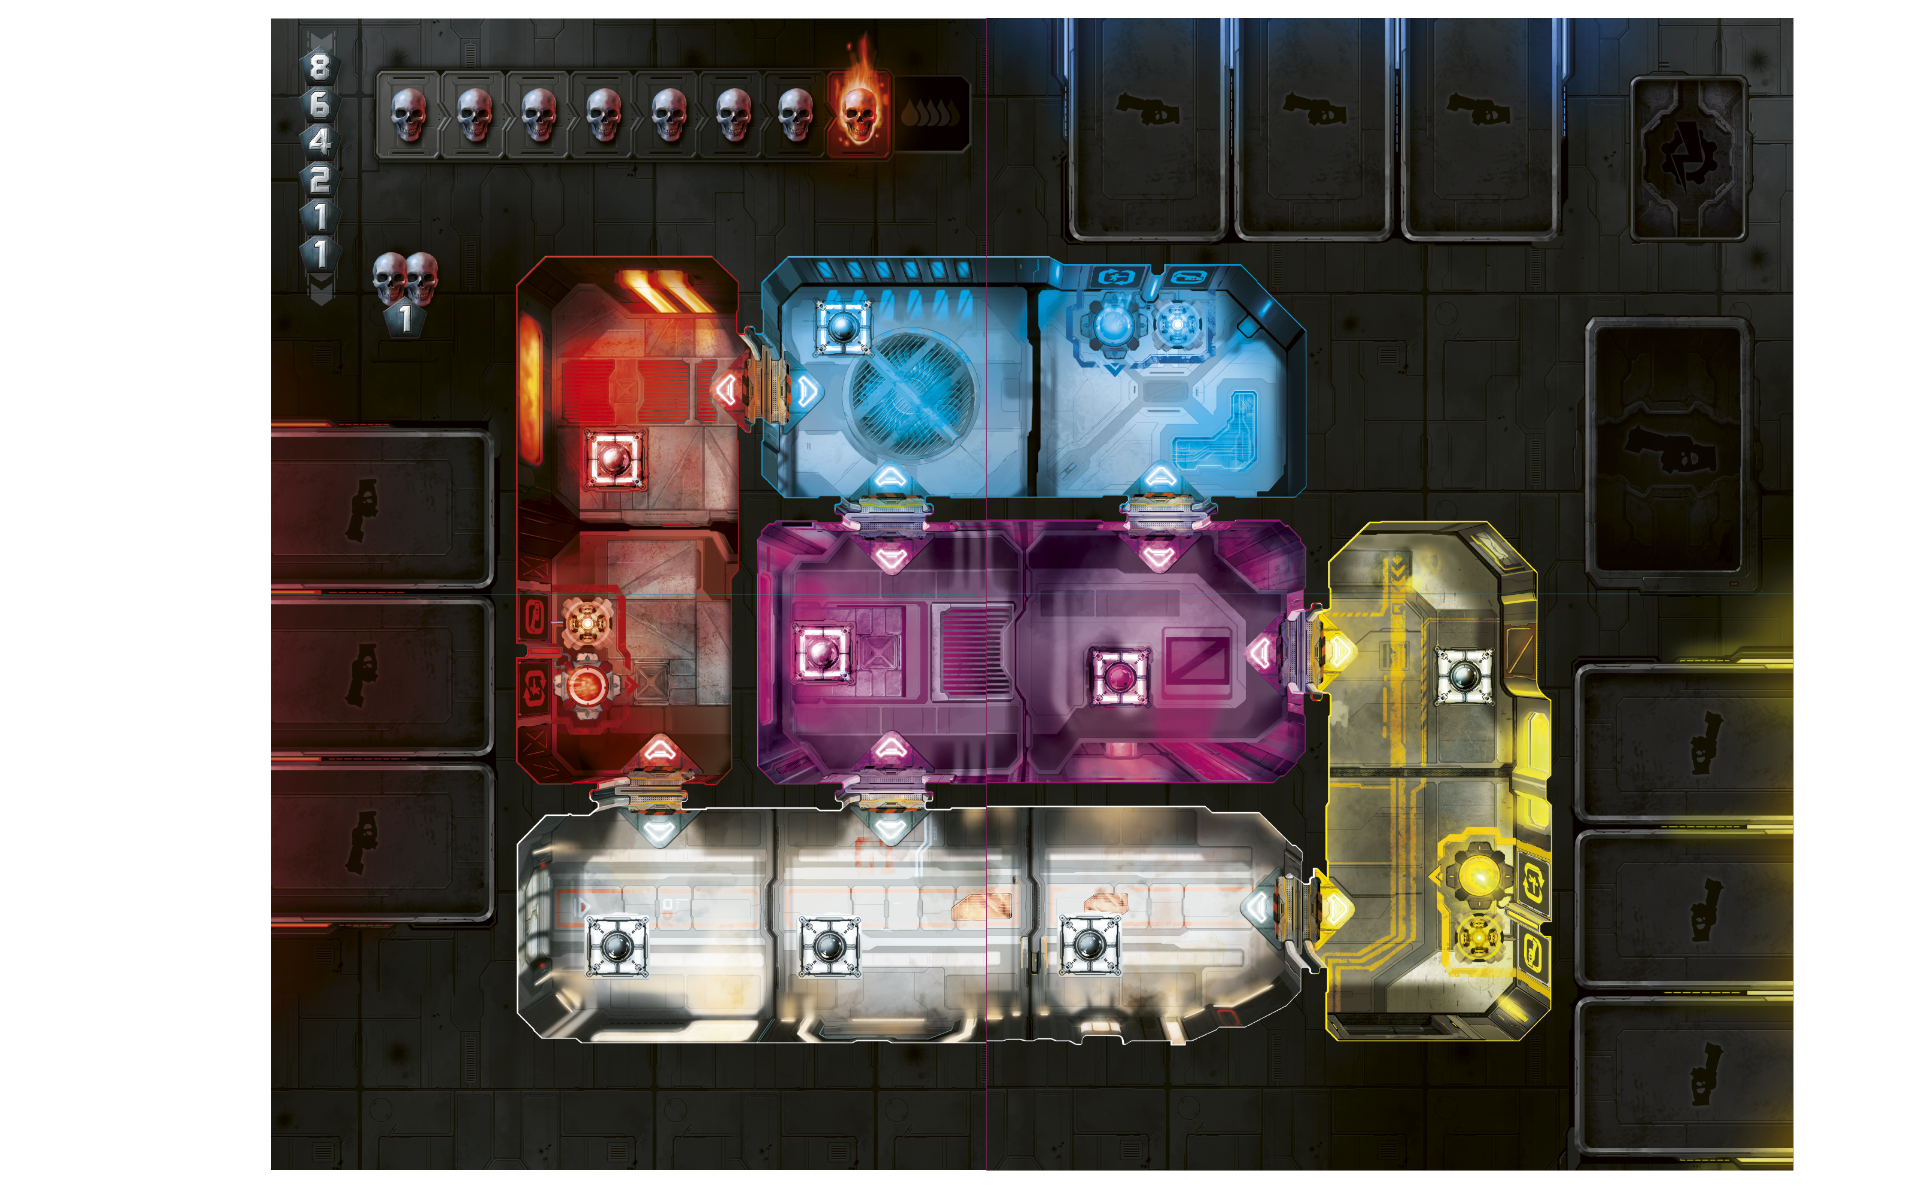
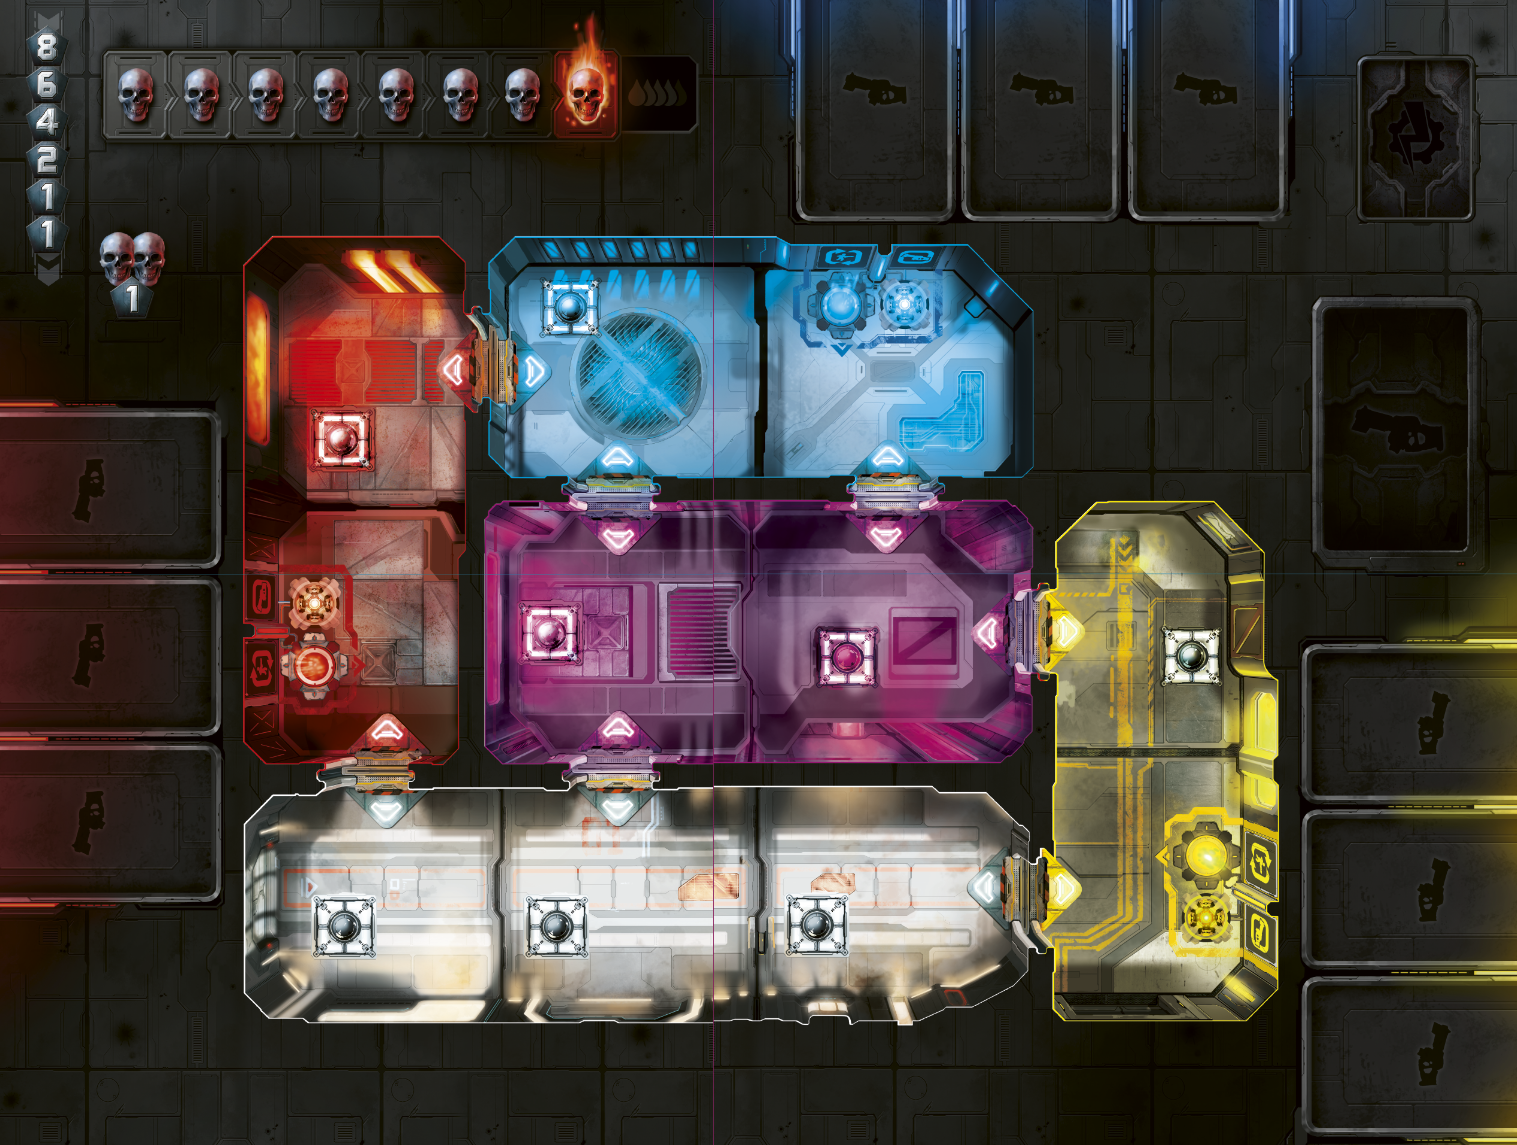
gui

diff --git a/src/main/java/it/polimi/ingsw/client/Gui.java b/src/main/java/it/polimi/ingsw/client/Gui.java
@@ -10,6 +10,7 @@ import javafx.geometry.Insets;
 import javafx.geometry.Pos;
 import javafx.scene.*;
 import javafx.scene.control.Button;
+import javafx.scene.image.ImageView;
 import javafx.scene.layout.BorderPane;
 import javafx.scene.paint.Color;
 import javafx.scene.text.Font;
@@ -71,7 +72,7 @@ public class Gui extends Application implements UserInterface {
         window.setWidth(primaryScreenBounds.getWidth());
         window.setHeight(primaryScreenBounds.getHeight());*/
 
-        window.setScene(gameScene);
+        window.setScene(startScene);
         window.show();
     }
 
@@ -169,16 +170,7 @@ public class Gui extends Application implements UserInterface {
         port_and_IP_Layout.setVgap(10);
         port_and_IP_Layout.setHgap(8);
         port_and_IP_Layout.setBackground(Background);
-        //Port number Input
-        Label port_number_label = new Label("Choose port number:");
-        port_number_label.setTextFill(Color.WHITE);
-        port_number_label.setFont(Font.font("Summit", FontWeight.NORMAL, 14));
-        //set the port number label in the top left
-        GridPane.setConstraints( port_number_label, 1, 10);
-        //insert the username
-        TextField port_number_input = new TextField();
 
-        GridPane.setConstraints(port_number_input, 2, 10);
         //choosing IP address input
         Label IP_address_label = new Label("Choose IP address:");
         IP_address_label.setFont(Font.font("Summit", FontWeight.NORMAL, 14));
@@ -192,7 +184,7 @@ public class Gui extends Application implements UserInterface {
         nextButton.setTextFill(Color.BLACK);
         GridPane.setConstraints(nextButton, 2, 13);
         GridPane.setConstraints(closeButton, 2, 17);
-        port_and_IP_Layout.getChildren().addAll(port_number_label, port_number_input, IP_address_label, IP_address_input, nextButton, closeButton);
+        port_and_IP_Layout.getChildren().addAll( IP_address_label, IP_address_input, nextButton, closeButton);
 
         Scene setPort_and_IP_scene = new Scene(port_and_IP_Layout, 750, 500);
 
@@ -200,21 +192,13 @@ public class Gui extends Application implements UserInterface {
 
             Gui.serverAddress = IP_address_input.getText();
 
-            if (port_number_input.getText().isEmpty()) {
-                TextBox.display("Enter a valid port number");
-                window.setScene(setPort_and_IP_scene);
-            }
             if (IP_address_input.getText().isEmpty()) {
                 TextBox.display("Enter a valid IP address");
                 window.setScene(setPort_and_IP_scene);
+            }else{
+                window.setScene(loginScene);
             }
 
-            if( Gui.RMI ) {
-                Gui.rmiPort = Integer.parseInt(port_number_input.getText());
-            } else
-                Gui.socketPort = Integer.parseInt(port_number_input.getText());
-
-            window.setScene(loginScene);
 
         });
 
@@ -348,6 +332,8 @@ public class Gui extends Application implements UserInterface {
 
     private Scene setGameScene(Stage window) throws FileNotFoundException {
 
+
+
         /*if(Gui.nameOfMap == MapName.FIRE ) {
             Gui.mapImage = new Image(new FileInputStream("src/main/resources/Grafica/Mappe/Mappe/Mappa_1.png"));
         }
@@ -380,38 +366,71 @@ public class Gui extends Application implements UserInterface {
         }*/
 
         Gui.mapImage = new Image(new FileInputStream("src/main/resources/Grafica/Mappe/Mappe/Mappa_1.png"));
+
         Gui.planciaGiocatoreImage = new Image(new FileInputStream("src/main/resources/Grafica/Plance_giocatori/Yellow/Yellow_front.png"));
 
+        Image purple_plancia = new Image(new FileInputStream("src/main/resources/Grafica/Plance_giocatori/Purple/Purple_front.png"));
+        Image green_plancia = new Image(new FileInputStream("src/main/resources/Grafica/Plance_giocatori/Green/Green_front.png"));
+        Image grey_plancia =  new Image(new FileInputStream("src/main/resources/Grafica/Plance_giocatori/Grey/Grey_front.png"));
+        Image blue_plancia = new Image(new FileInputStream("src/main/resources/Grafica/Plance_giocatori/Blue/Blue_front.png"));
+
+        ImageView purple_plancia_imageView = new ImageView(purple_plancia);
+        ImageView green_plancia_imageView = new ImageView(green_plancia);
+        ImageView grey_plancia_imageView = new ImageView(grey_plancia);
+        ImageView blue_plancia_imageView = new ImageView(blue_plancia);
+        purple_plancia_imageView.setFitWidth(300);
+        purple_plancia_imageView.setFitHeight(75);
+        green_plancia_imageView.setFitWidth(300);
+        green_plancia_imageView.setFitHeight(75);
+        grey_plancia_imageView.setFitWidth(300);
+        grey_plancia_imageView.setFitHeight(75);
+        blue_plancia_imageView.setFitWidth(300);
+        blue_plancia_imageView.setFitHeight(75);
+
+        VBox Plance_altri_giocatori = new VBox();
+        Plance_altri_giocatori.setStyle("-fx-border-color: white");
+        Plance_altri_giocatori.setSpacing(35);
+        Plance_altri_giocatori.getChildren().addAll(purple_plancia_imageView, green_plancia_imageView, grey_plancia_imageView, blue_plancia_imageView);
+
+
         GridPane mapGridPane = new GridPane();
-        mapGridPane.maxWidthProperty().bind(Bindings.divide(window.widthProperty(), 1.25));
-        mapGridPane.maxHeightProperty().bind(Bindings.divide(window.heightProperty(), 1.25));
-        mapGridPane.setPadding(new Insets(0, 0, 0, 0));
-        GridPane.setMargin(mapGridPane, new Insets(0, 0, 0, 0));
+        mapGridPane.setStyle("-fx-border-color: black");
+        mapGridPane.maxWidthProperty().bind(Bindings.divide(window.widthProperty(), 1.45));
+        mapGridPane.maxHeightProperty().bind(Bindings.divide(window.heightProperty(), 1.00));
+        mapGridPane.minWidthProperty().bind(Bindings.divide(window.widthProperty(), 1.45));
+        mapGridPane.minHeightProperty().bind(Bindings.divide(window.heightProperty(), 1.00));
         mapGridPane.setGridLinesVisible(true);
 
         //In questa GridPane, posta sul Bottom, ci sarà la plancia giocatore
         GridPane planciaPlayerGridPane = new GridPane();
-        planciaPlayerGridPane.maxWidthProperty().bind(Bindings.divide(window.widthProperty(), 1.50));
-        planciaPlayerGridPane.maxHeightProperty().bind(Bindings.divide(window.heightProperty(), 1.50));
-        planciaPlayerGridPane.setPadding(new Insets(0, 0, 0, 0));
-        GridPane.setMargin(planciaPlayerGridPane, new Insets(0, 0, 0, 0));
+        planciaPlayerGridPane.setStyle("-fx-border-color: blue");
+        planciaPlayerGridPane.setPadding(new Insets(50, 0, 0, 50));
+        planciaPlayerGridPane.maxWidthProperty().bind(Bindings.divide(window.widthProperty(), 3.00));
+        //planciaPlayerGridPane.maxHeightProperty().bind(Bindings.divide(window.heightProperty(), 3.00));
+        planciaPlayerGridPane.minWidthProperty().bind(Bindings.divide(window.widthProperty(), 3.00));
+        planciaPlayerGridPane.minHeightProperty().bind(Bindings.divide(window.heightProperty(), 6.00));
         planciaPlayerGridPane.setGridLinesVisible(true);
 
-        BackgroundImage image = new BackgroundImage(Gui.mapImage, BackgroundRepeat.REPEAT, BackgroundRepeat.NO_REPEAT, BackgroundPosition.CENTER, new BackgroundSize(mapGridPane.getWidth(), mapGridPane.getHeight(), false, false, true, false));
+        BackgroundImage image = new BackgroundImage(Gui.mapImage, BackgroundRepeat.NO_REPEAT, BackgroundRepeat.NO_REPEAT, BackgroundPosition.DEFAULT, new BackgroundSize(mapGridPane.getWidth(), mapGridPane.getHeight(), true, true, true, false));
         Background BackgroundMapImage = new Background(image);
         mapGridPane.setBackground(BackgroundMapImage);
 
-        BackgroundImage planciaImage = new BackgroundImage(Gui.planciaGiocatoreImage, BackgroundRepeat.REPEAT, BackgroundRepeat.NO_REPEAT, BackgroundPosition.CENTER, new BackgroundSize(planciaPlayerGridPane.getWidth(), planciaPlayerGridPane.getHeight(), false, false, true, false));
+        BackgroundImage planciaImage = new BackgroundImage(Gui.planciaGiocatoreImage, BackgroundRepeat.NO_REPEAT, BackgroundRepeat.NO_REPEAT, BackgroundPosition.DEFAULT, new BackgroundSize(planciaPlayerGridPane.getWidth(), planciaPlayerGridPane.getHeight(), true, true, true, false));
         Background BackgroundPlanciaImage = new Background(planciaImage);
         planciaPlayerGridPane.setBackground(BackgroundPlanciaImage);
 
-        BorderPane gameBorderPane = new BorderPane(mapGridPane);
-        BorderPane.setMargin(gameBorderPane, new Insets(0, 0, 0, 0));
-        gameBorderPane.setPadding(new Insets(0, 0, 0, 0));
+        BorderPane gameBorderPane = new BorderPane();
+        gameBorderPane.setStyle("-fx-border-color: green");
         gameBorderPane.setStyle("-fx-background-color: linear-gradient(from 25% 25% to 100% 100%, #300900, #7F1600)");
         gameBorderPane.setPrefSize(1000, 800);
-        BorderPane.setAlignment(mapGridPane, Pos.TOP_LEFT);
-        BorderPane.setAlignment(planciaPlayerGridPane, Pos.BOTTOM_LEFT);
+        BorderPane.setAlignment(mapGridPane, Pos.CENTER);
+        BorderPane.setAlignment(planciaPlayerGridPane, Pos.TOP_LEFT);
+        BorderPane.setAlignment(Plance_altri_giocatori, Pos.TOP_RIGHT);
+        gameBorderPane.setCenter(mapGridPane);
+        gameBorderPane.setTop(planciaPlayerGridPane);
+        gameBorderPane.setRight(Plance_altri_giocatori);
+
+
 
         Scene gameScene = new Scene(gameBorderPane);
 
